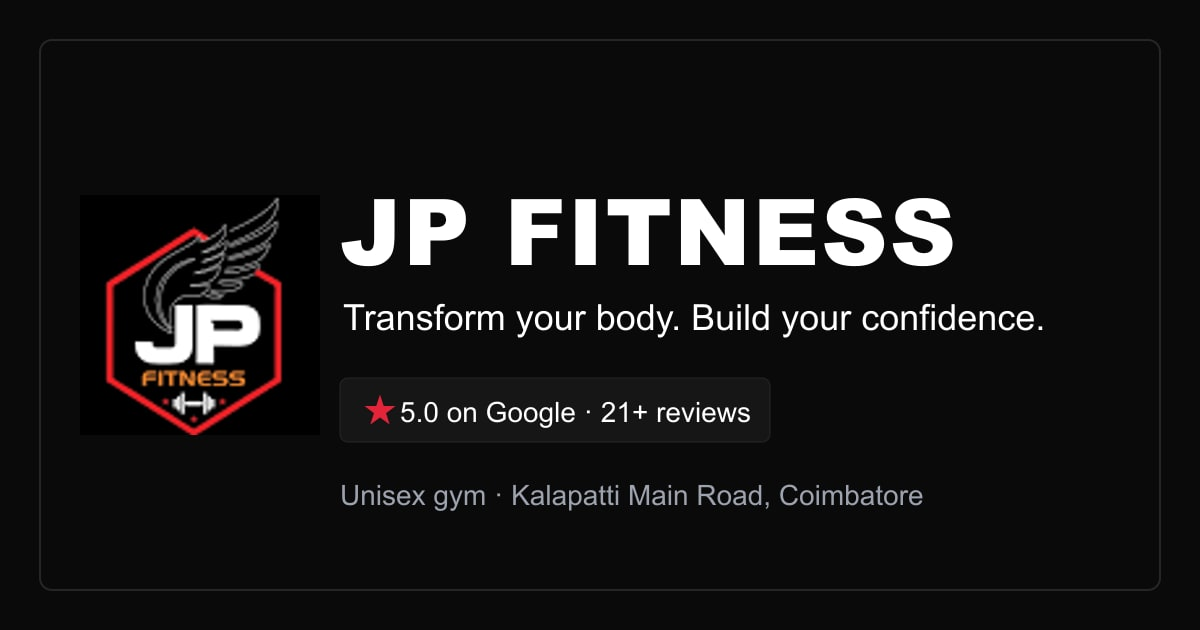
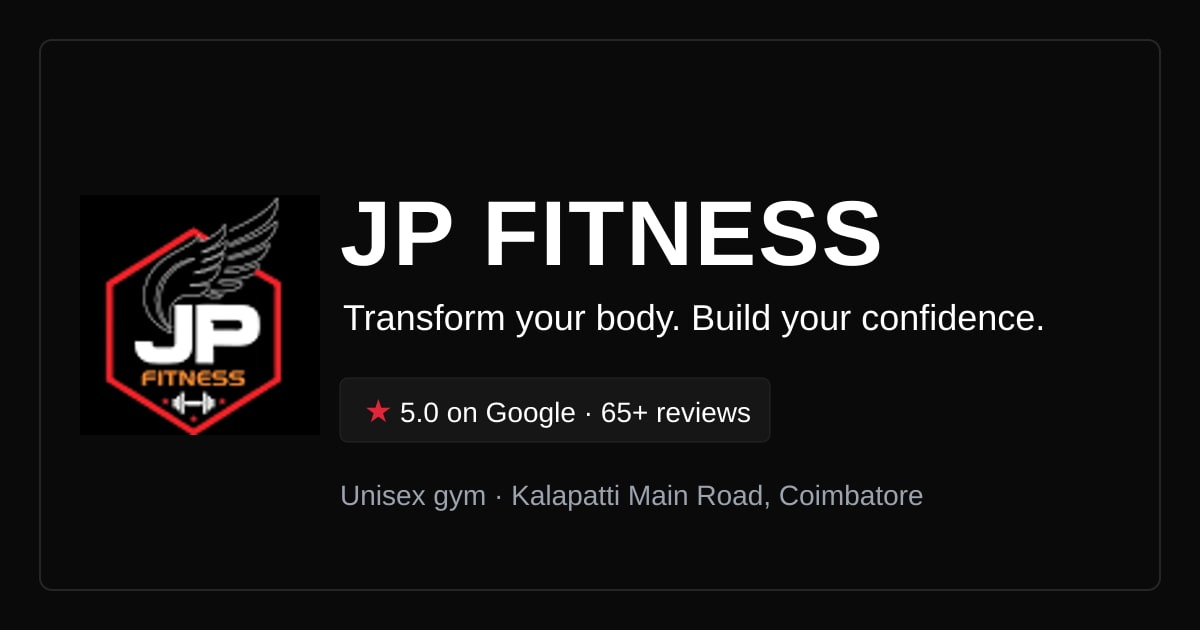
Update membership prices, 65+ reviews, and move upcoming event into a popup
- Plans: 3 months ₹5,999, 6 months ₹7,999, 12 months ₹11,999 (cards,
  FAQ, meta descriptions, JSON-LD price range)
- Google reviews count now 65+ (hero, stats, testimonials heading,
  success stories, OG share image)
- Home 'Upcoming event' strip replaced by a small dismissible popup:
  top-right on desktop, bottom on mobile

Claude-Session: https://claude.ai/code/session_01JQpHPTavi1JMAYXxD5QXtn

diff --git a/components/EventPopup.tsx b/components/EventPopup.tsx
@@ -1,0 +1,89 @@
+"use client";
+
+import Link from "next/link";
+import Image from "next/image";
+import { useEffect, useState } from "react";
+import { AnimatePresence, m } from "motion/react";
+import { ArrowRight, X } from "lucide-react";
+import { anniversaryCompetition as event } from "@/lib/data";
+
+const DISMISS_KEY = "jp-event-popup-dismissed";
+
+/**
+ * Small "Upcoming event" card: top-right under the header on desktop,
+ * bottom of the screen on mobile (beside the WhatsApp button).
+ * Closing it hides it for the rest of the visit.
+ */
+export default function EventPopup() {
+  const [open, setOpen] = useState(false);
+
+  useEffect(() => {
+    let dismissed = false;
+    try {
+      dismissed = sessionStorage.getItem(DISMISS_KEY) === "1";
+    } catch {}
+    if (dismissed) return;
+    const timer = window.setTimeout(() => setOpen(true), 1200);
+    return () => window.clearTimeout(timer);
+  }, []);
+
+  function close() {
+    setOpen(false);
+    try {
+      sessionStorage.setItem(DISMISS_KEY, "1");
+    } catch {}
+  }
+
+  return (
+    <AnimatePresence>
+      {open ? (
+        <m.aside
+          aria-label="Upcoming event"
+          initial={{ opacity: 0, y: 16 }}
+          animate={{ opacity: 1, y: 0 }}
+          exit={{ opacity: 0, y: 16 }}
+          transition={{ duration: 0.3, ease: "easeOut" }}
+          className="fixed bottom-5 left-4 right-[88px] z-40 md:bottom-auto md:left-auto md:right-6 md:top-[140px] md:w-[320px]"
+        >
+          <div className="relative flex items-center gap-3 rounded-lg border border-line bg-surface/95 p-3 pr-9 shadow-[0_12px_32px_rgb(0_0_0/0.5)] backdrop-blur">
+            <span className="absolute inset-y-3 left-0 w-[3px] rounded-r bg-brand" aria-hidden="true" />
+            <Image
+              src={event.poster.src}
+              alt=""
+              width={44}
+              height={66}
+              sizes="44px"
+              className="h-[66px] w-11 shrink-0 rounded object-cover"
+            />
+            <div className="min-w-0">
+              <p className="text-[10px] font-semibold uppercase tracking-[0.2em] text-brand">
+                Upcoming event
+              </p>
+              <p className="mt-0.5 text-sm font-semibold leading-tight text-white">
+                1st Anniversary Fitness Competition
+              </p>
+              <p className="mt-0.5 truncate text-xs text-muted-bright">
+                {event.dateRangeDisplay}
+              </p>
+              <Link
+                href="/events"
+                className="mt-1 inline-flex items-center gap-1 text-xs font-semibold text-white underline-offset-4 hover:text-brand hover:underline"
+              >
+                View details
+                <ArrowRight className="h-3 w-3" aria-hidden="true" />
+              </Link>
+            </div>
+            <button
+              type="button"
+              onClick={close}
+              aria-label="Close event popup"
+              className="absolute right-1 top-1 flex h-8 w-8 items-center justify-center rounded-md text-muted hover:text-white"
+            >
+              <X className="h-4 w-4" aria-hidden="true" />
+            </button>
+          </div>
+        </m.aside>
+      ) : null}
+    </AnimatePresence>
+  );
+}

diff --git a/app/page.tsx b/app/page.tsx
@@ -1,6 +1,6 @@
 import type { Metadata } from "next";
 import Link from "next/link";
-import { ArrowRight, Trophy } from "lucide-react";
+import { ArrowRight } from "lucide-react";
 import Hero from "@/components/Hero";
 import Marquee from "@/components/Marquee";
 import StatCounter from "@/components/StatCounter";
@@ -13,20 +13,20 @@ import InstagramGrid from "@/components/InstagramGrid";
 import VisitUs from "@/components/VisitUs";
 import CtaBand from "@/components/CtaBand";
 import Slashed from "@/components/Slashed";
+import EventPopup from "@/components/EventPopup";
 import {
   business,
   plans,
   programs,
   reviews,
   stats,
-  anniversaryCompetition,
   whyChooseUs,
 } from "@/lib/data";
 
 export const metadata: Metadata = {
   title: "JP Fitness Kalapatti | Best Unisex Gym in Coimbatore",
   description:
-    "Rated 5.0 on Google. Unisex gym on Kalapatti Main Road, Coimbatore with expert trainers, modern equipment and weight loss programs. Plans from ₹4,999.",
+    "65+ five-star Google reviews. Unisex gym on Kalapatti Main Road, Coimbatore with expert trainers, modern equipment and weight loss programs. Plans from ₹5,999.",
   alternates: { canonical: "/" },
 };
 
@@ -36,26 +36,7 @@ export default function HomePage() {
       <Hero />
       <Marquee />
 
-      {/* Upcoming event banner */}
-      <section className="border-b border-line bg-surface" aria-label="Upcoming event">
-        <div className="container-jp flex flex-col gap-4 py-6 sm:flex-row sm:items-center sm:justify-between">
-          <div className="flex items-center gap-4">
-            <Trophy className="h-8 w-8 shrink-0 text-brand" aria-hidden="true" />
-            <div>
-              <p className="text-xs font-semibold uppercase tracking-[0.22em] text-muted">
-                Upcoming event
-              </p>
-              <p className="mt-1 font-semibold text-white">
-                {anniversaryCompetition.name} · {anniversaryCompetition.dateRangeDisplay} ·{" "}
-                {anniversaryCompetition.eligibility}
-              </p>
-            </div>
-          </div>
-          <Link href="/events" className="btn-brand shrink-0">
-            Event details
-          </Link>
-        </div>
-      </section>
+      <EventPopup />
 
       {/* Stats band */}
       <section className="border-b border-line" aria-label="JP Fitness in numbers">
@@ -170,8 +151,8 @@ export default function HomePage() {
           <Reveal>
             <SectionHeader
               eyebrow="Testimonials"
-              title="RATED 5.0 BY OUR MEMBERS"
-              sub={`${business.rating.value} from ${business.rating.count} public reviews on Google.`}
+              title={`${business.rating.count}+ FIVE-STAR REVIEWS`}
+              sub={`${business.rating.count}+ five-star reviews on Google.`}
             />
           </Reveal>
           <div className="mt-12 grid gap-5 sm:grid-cols-2">

diff --git a/lib/data.ts b/lib/data.ts
@@ -35,7 +35,7 @@ export const business = {
   ],
   landmark: "4th floor, above Grace and Bakes, near Nehru Nagar signal",
   geo: { lat: 11.0562424, lng: 77.0386703 },
-  rating: { value: "5.0", count: 21 },
+  rating: { value: "5.0", count: 65 },
   mapsUrl:
     "https://www.google.com/maps/place/?q=place_id:ChIJRZBs_5FXqDsRWqSqdEm3JyA",
   reviewUrl:
@@ -94,7 +94,7 @@ export interface Stat {
 
 export const stats: Stat[] = [
   { value: 5, decimals: 1, label: "Google rating" },
-  { value: 21, suffix: "+", label: "Five-star reviews" },
+  { value: 65, suffix: "+", label: "Five-star reviews" },
   { value: 6, suffix: "+", label: "Certified trainers" },
   { value: 7, label: "Days open a week" },
 ];
@@ -169,11 +169,11 @@ export interface Plan {
   best: boolean;
 }
 
-/** Prices from the client's current offer poster. Never invent a strike-through price. */
+/** Membership prices confirmed by the client on 25 September 2026. Never invent a strike-through price. */
 export const plans: Plan[] = [
-  { id: "3-months", duration: "3 months", priceDisplay: "₹4,999", best: false },
-  { id: "6-months", duration: "6 months", priceDisplay: "₹6,999", best: false },
-  { id: "12-months", duration: "12 months", priceDisplay: "₹9,999", best: true },
+  { id: "3-months", duration: "3 months", priceDisplay: "₹5,999", best: false },
+  { id: "6-months", duration: "6 months", priceDisplay: "₹7,999", best: false },
+  { id: "12-months", duration: "12 months", priceDisplay: "₹11,999", best: true },
 ];
 
 export const planInclusions: string[] = [
@@ -219,7 +219,7 @@ export const faqs: Faq[] = [
   {
     question: "How much does a gym membership cost at JP Fitness?",
     answer:
-      "JP Fitness membership costs ₹4,999 for 3 months, ₹6,999 for 6 months and ₹9,999 for 12 months. Every plan includes full gym access, all equipment, trainer guidance and diet guidance.",
+      "JP Fitness membership costs ₹5,999 for 3 months, ₹7,999 for 6 months and ₹11,999 for 12 months. Every plan includes full gym access, all equipment, trainer guidance and diet guidance.",
   },
   {
     question: "Is JP Fitness a unisex gym?",

diff --git a/app/layout.tsx b/app/layout.tsx
@@ -32,7 +32,7 @@ export const metadata: Metadata = {
     template: "%s",
   },
   description:
-    "Rated 5.0 on Google. Unisex gym on Kalapatti Main Road, Coimbatore with expert trainers, modern equipment and weight loss programs. Plans from ₹4,999.",
+    "65+ five-star Google reviews. Unisex gym on Kalapatti Main Road, Coimbatore with expert trainers, modern equipment and weight loss programs. Plans from ₹5,999.",
   openGraph: {
     siteName: "JP Fitness",
     locale: "en_IN",
@@ -64,7 +64,7 @@ const jsonLd = {
   url: SITE_URL,
   telephone: "+919965972440",
   image: `${SITE_URL}/images/og-image.jpg`,
-  priceRange: "₹4,999 - ₹9,999",
+  priceRange: "₹5,999 - ₹11,999",
   address: {
     "@type": "PostalAddress",
     streetAddress: "DM Complex, 800/6, Kalapatti Main Rd, Indira Nagar, Nehru Nagar West",

diff --git a/app/success-stories/page.tsx b/app/success-stories/page.tsx
@@ -42,7 +42,7 @@ export default function SuccessStoriesPage() {
             <SectionHeader
               eyebrow="Member reviews"
               title="WHAT MEMBERS SAY ON GOOGLE"
-              sub={`Every quote below comes from our public Google listing, rated ${business.rating.value} across ${business.rating.count} reviews.`}
+              sub={`Every quote below comes from our public Google listing, rated ${business.rating.value} across ${business.rating.count}+ five-star reviews.`}
             />
           </Reveal>
           <div className="mt-12 grid gap-5 sm:grid-cols-2">

diff --git a/app/pricing/page.tsx b/app/pricing/page.tsx
@@ -12,7 +12,7 @@ import { faqs, plans, waLink } from "@/lib/data";
 export const metadata: Metadata = {
   title: "Gym Membership Fees in Coimbatore | JP Fitness Plans",
   description:
-    "JP Fitness membership: 3 months ₹4,999, 6 months ₹6,999, 12 months ₹9,999. Unisex gym in Kalapatti, Coimbatore. Call or WhatsApp 99659 72440 to join.",
+    "JP Fitness membership: 3 months ₹5,999, 6 months ₹7,999, 12 months ₹11,999. Unisex gym in Kalapatti, Coimbatore. Call or WhatsApp 99659 72440 to join.",
   alternates: { canonical: "/pricing/" },
 };
 

diff --git a/README.md b/README.md
@@ -1,6 +1,6 @@
 # JP Fitness — Website
 
-Lead-generation website for **JP Fitness**, a unisex gym in Kalapatti, Coimbatore, Tamil Nadu. Rated 5.0 on Google (21 reviews). Every page drives one of three actions: **call**, **WhatsApp**, or **walk in**.
+Lead-generation website for **JP Fitness**, a unisex gym in Kalapatti, Coimbatore, Tamil Nadu. Rated 5.0 on Google (65+ five-star reviews). Every page drives one of three actions: **call**, **WhatsApp**, or **walk in**.
 
 - **Live:** https://jpfitness.co.in (GoDaddy domain → Netlify site `jpfitnesskalapatti`; the bare netlify.app URL redirects here)
 - **Spec:** [JP-FITNESS-SPEC.md](./JP-FITNESS-SPEC.md) (single source of truth for requirements)
@@ -49,7 +49,7 @@ All visible placeholders and TODO tags have been removed from the site (client r
 ## ⚠ Flags raised during the build (do not resolve silently)
 
 1. **Hours conflict:** the site uses client-provided hours (Mon-Sat 5-11 AM and 5-9:30 PM, Sun 5 AM-12 PM), but the Google Business Profile currently shows different hours. The client must update the Google listing to match; mismatched hours hurt local rankings and trust.
-2. **Pricing:** ₹4,999 / ₹6,999 / ₹9,999 come from a poster labelled "Limited time special offer". Confirm whether these are permanent. Never invent a regular/strike-through price.
+2. **Pricing:** ₹5,999 (3 months) / ₹7,999 (6 months) / ₹11,999 (12 months), updated by the client on 25 Sep 2026. Never invent a regular/strike-through price.
 
 ## Open items (remaining)
 

diff --git a/JP-FITNESS-SPEC.md b/JP-FITNESS-SPEC.md
@@ -76,9 +76,9 @@ Trainers:        6+ certified trainers (one trainer named John is praised in rev
 
 | Plan | Price | Notes |
 |---|---|---|
-| 3 months | ₹4,999 | |
-| 6 months | ₹6,999 | |
-| 12 months | ₹9,999 | Mark as "Best value" |
+| 3 months | ₹5,999 | |
+| 6 months | ₹7,999 | |
+| 12 months | ₹11,999 | Mark as "Best value" |
 
 > **PRICING CAUTION:** The poster labels these "Limited time special offer". TODO: confirm with client whether these are permanent prices or offer prices. If offer prices, add an "Offer" badge and ask for the regular prices, or omit strike-through pricing entirely. Never invent a regular price.
 
